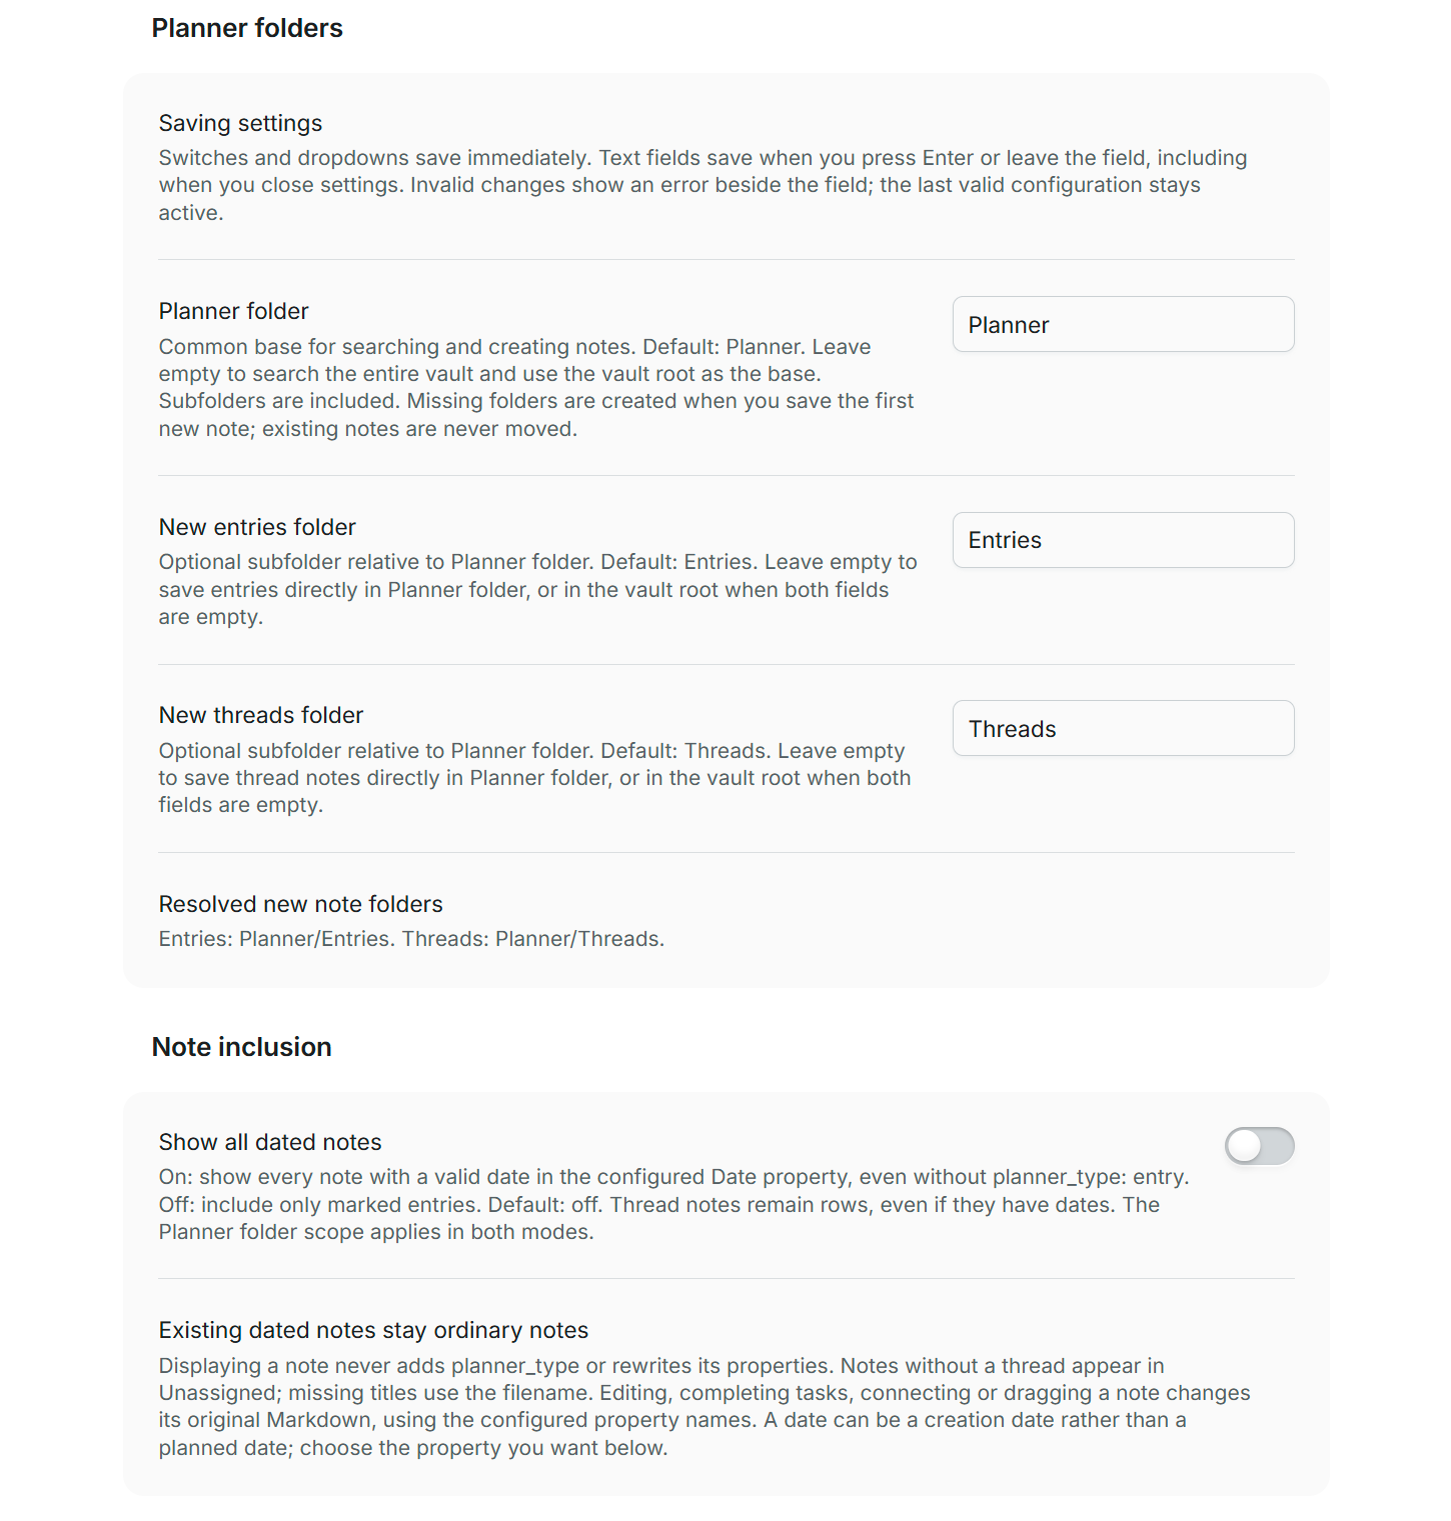
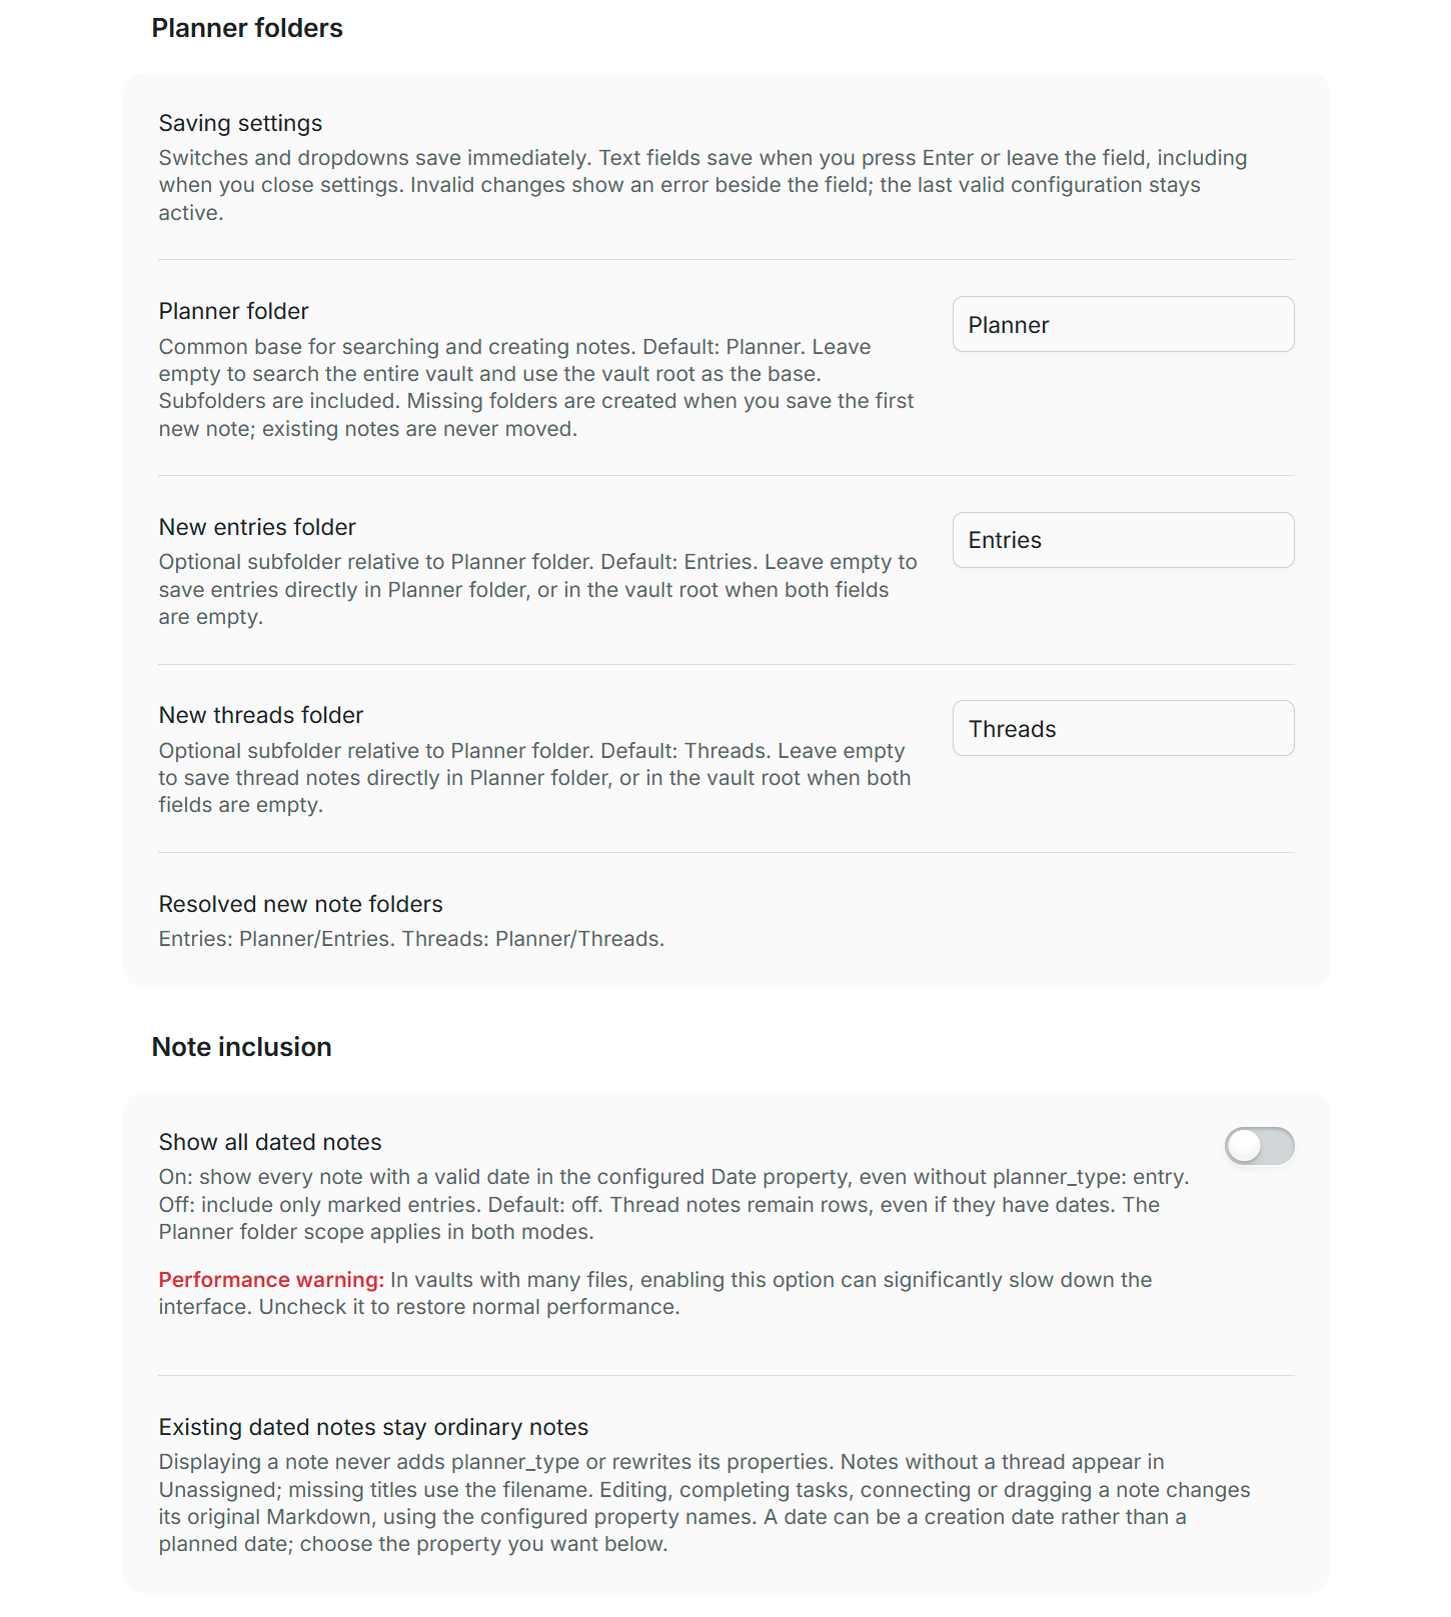
Release 0.3.1: warn about dated-note performance

diff --git a/settings-tab.ts b/settings-tab.ts
@@ -138,7 +138,11 @@ export class PlannerSettingsTab extends PluginSettingTab {
         heading: 'Note inclusion', rows: [
           {
             name: 'Show all dated notes', desc: 'On: show every note with a valid date in the configured Date property, even without planner_type: entry. Off: include only marked entries. Default: off. Thread notes remain rows, even if they have dates. The Planner folder scope applies in both modes.',
-            render: setting => { setting.addToggle(toggle => {
+            render: setting => {
+              const warning = setting.descEl.createEl('p');
+              warning.createEl('strong', { text: 'Performance warning: ' });
+              warning.createSpan({ text: 'In vaults with many files, enabling this option can significantly slow down the interface. Uncheck it to restore normal performance.' });
+              setting.addToggle(toggle => {
               const field = this.track('showAllDatedNotes', setting, toggle.toggleEl.querySelector('input') ?? toggle.toggleEl, () => toggle.getValue(), value => {
                 toggle.setValue(Boolean(value));
                 const checkbox = toggle.toggleEl.querySelector<HTMLInputElement>('input');

diff --git a/TESTING.md b/TESTING.md
@@ -1,5 +1,9 @@
 # Validation
 
+## Dated-note performance warning — 0.3.1
+
+On 2026-10-31, `npm run check` passed all twenty-eight tests, official lint, strict TypeScript, build and package checks. Central installation/verification passed. The warning was checked in the installed settings panel and its native screenshot inspected: it explains that many files can significantly slow the interface and that unchecking the option restores normal performance. The demo retains twenty entries and four threads with no captured errors; screenshot capture preserves the saved settings bytes.
+
 ## Common base and ordinary dated notes — 0.3.0
 
 On 2026-10-31, `npm run check` passed official Obsidian lint, strict TypeScript, all twenty-eight unit tests, the build and package audit. The installed development build passed thirty in-app cases in `scripts/qa-settings.mjs`. Coverage includes a named base without whole-vault enumeration, optional relative subfolders, empty child paths, creation of a previously absent base on first note creation, empty-thread recovery, folder boundary events, autosave validation/concurrency/failure recovery, legacy scope/path adaptation and all prior mapped-note editing checks.
@@ -74,7 +78,7 @@ Result: **14 unit tests and 12 in-app integration checks passed**. The central i
 
 `npm run check` runs the official Obsidian ESLint rules with zero warnings, strict TypeScript checking, twenty-eight Node tests, the production bundle and the package audit. The tests exercise invalid dates, leap years and DST boundaries, wikilinks, cyclic/branched connections, Spotlight, date-gap preservation, overlapping cards, fenced-code task exclusion, CRLF preservation, multi-file rollback, rollback conflicts and history behavior. Settings tests cover isolated English defaults, legacy loading, folder validation and scope boundaries, independent creation folders, reserved and duplicate keys, exact mapped reads, simultaneous mapped writes, index-reset conditions and history clearing.
 
-The package audit checks matching versions, required distribution files and zero runtime dependencies. The JavaScript bundle is approximately 60.5 KiB, with Obsidian as its only external runtime module.
+The package audit checks matching versions, required distribution files and zero runtime dependencies. The JavaScript bundle is approximately 60.7 KiB, with Obsidian as its only external runtime module.
 
 ## Direct connection widgets — 2026-10-30
 

diff --git a/README.md b/README.md
@@ -7,7 +7,7 @@
 A visual timeline for Obsidian: projects in rows, days in columns, and every card an ordinary Markdown note.
 
 [![Check plugin](https://github.com/DavidHurtadoAI/just-simple-planner/actions/workflows/check.yml/badge.svg)](https://github.com/DavidHurtadoAI/just-simple-planner/actions/workflows/check.yml)
-![Version](https://img.shields.io/badge/version-0.3.0-4c819a)
+![Version](https://img.shields.io/badge/version-0.3.1-4c819a)
 ![Obsidian](https://img.shields.io/badge/Obsidian-1.10.2%2B-7c3aed)
 [![License: MIT](https://img.shields.io/badge/license-MIT-16a34a)](LICENSE)
 ![Runtime dependencies](https://img.shields.io/badge/runtime_dependencies-0-0891b2)
@@ -143,6 +143,8 @@ Missing folders are created when you save the first new note. Absolute paths, pa
 **Show all dated notes** is off by default. With it off, cards require `planner_type: entry` and a valid mapped date. Turn it on to include **any note with a valid calendar date in the configured Date property**, even if it has no planner type or a different type. The Planner folder scope applies in both modes.
 
 Thread notes marked `planner_type: thread` remain rows, even when they have dates. Missing thread values appear under **Unassigned**, and missing titles fall back to the filename. Ordinary notes with invalid dates or a different date key are excluded.
+
+**Performance warning:** in vaults with many files, enabling this option can significantly slow down the interface. Uncheck **Show all dated notes** to restore normal performance.
 
 **Displaying a note does not modify it or add planner_type.** Editing, completing tasks, connecting or dragging a card writes to that original Markdown note using the mapped property names. A date can represent creation or publication rather than a plan; choose the property you want to visualize.
 

diff --git a/.github/release-notes/0.3.1.md b/.github/release-notes/0.3.1.md
@@ -1,0 +1,7 @@
+Add a performance warning beside **Show all dated notes** in settings.
+
+The warning explains that enabling this option in a vault with many files can significantly slow down the interface, and that unchecking it restores normal performance.
+
+The README and settings screenshot include the same guidance. Validated with all twenty-eight unit tests, official Obsidian lint, strict TypeScript, package checks and an in-app inspection in the canonical development vault.
+
+Requires Obsidian 1.10.2 or later. Install `main.js`, `manifest.json` and `styles.css` below. GitHub Actions builds, checks, attests and verifies all three files before publication.

diff --git a/CHANGELOG.md b/CHANGELOG.md
@@ -1,5 +1,9 @@
 # Changelog
 
+## 0.3.1 — 2026-10-31
+
+- Add a performance warning beside Show all dated notes, explaining that large vaults may slow down the interface and that unchecking the option restores normal performance.
+
 ## 0.3.0 — 2026-10-31
 
 - Replace Search folder and Search entire vault with a common Planner folder. Empty searches the entire vault; optional entry/thread subfolders are relative to this base and empty saves directly in it.
